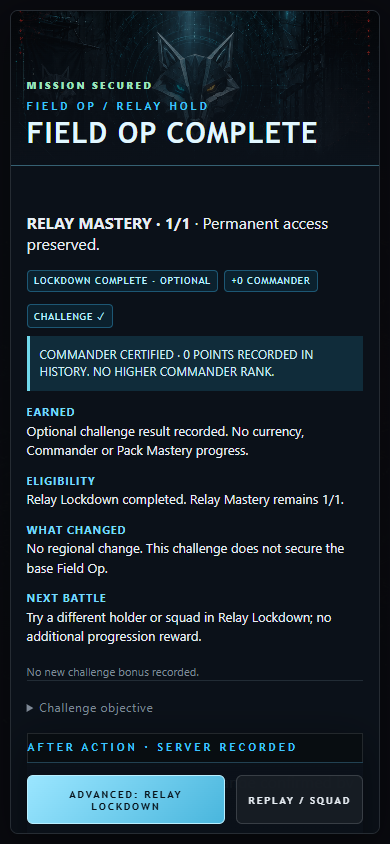
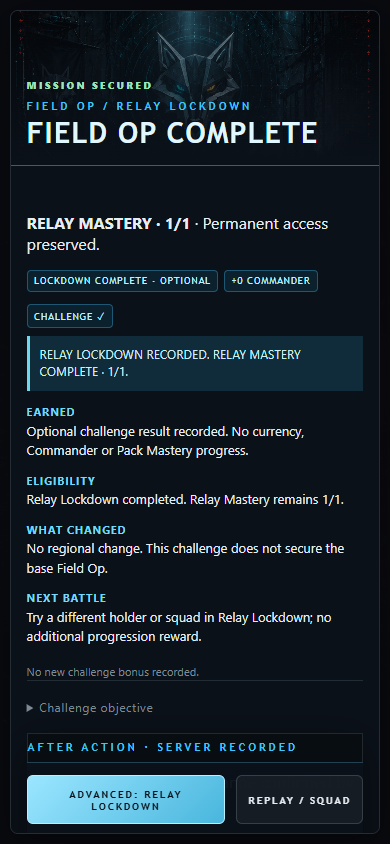
test(tactical): reconcile original depth sources and verify all legal squads

Changed region(s): [[0.0923, 0.4005, 0.8, 0.4621], [0.4308, 0.1232, 0.5538, 0.154], [0.5846, 0.1232, 0.6462, 0.154]]

diff --git a/tactical-ops-src/ui/App.tsx b/tactical-ops-src/ui/App.tsx
@@ -1039,7 +1039,9 @@ function Results() {
   const activeRulesetVersion = useBattleStore((s) => s.activeRulesetVersion);
   const selectedSquadIds = useBattleStore((s) => s.selectedSquadIds);
   const encounter = resolveCurrentEncounter(onboardingEnabled, onboardingStageId);
-  const mission = getMissionDef(selectedMissionId);
+  const resultBaseMission = getMissionDef(selectedMissionId);
+  const confirmedVariant = matchingAfterActionReceipt(fieldResult, currentRunKey, selectedMissionId)?.masteryChallenge;
+  const mission = resultBaseMission && confirmedVariant ? missionForContext(resultBaseMission,{reportVersion:4,masteryChallenge:confirmedVariant}) : resultBaseMission;
   const fieldOp = mission?.activity === "FIELD_OP";
   const campaignMission = mission?.operationId === DEAD_RELAY.operationId;
   const resultNext = commandPurpose(progression).primary;

diff --git a/tactical-ops-src/ui/missionPurpose.ts b/tactical-ops-src/ui/missionPurpose.ts
@@ -128,6 +128,7 @@ export function deriveMissionPresentation(m: MissionDef, field?: FieldOpsProgres
   };
 }
 export function recordedResultMeaning(result: FieldResult): string {
+  if (result.masteryChallenge) return result.victory ? "RELAY LOCKDOWN RECORDED. RELAY MASTERY COMPLETE · 1/1." : "LOCKDOWN ATTEMPT RECORDED. YOUR PERMANENT ACCESS IS PRESERVED.";
   if (!result.victory) return "MISSION FAILED. No clear recorded. Regroup and retry.";
   if (result.rankAfter >= 3) return `COMMANDER CERTIFIED · ${result.progressEarned} POINTS RECORDED IN HISTORY. NO HIGHER COMMANDER RANK.`;
   if (result.progressEarned > 0) return "COMMANDER PROGRESS RECORDED. YOUR NEXT CERTIFICATION MILESTONE IS CLOSER.";

diff --git a/docs/TACTICAL_DEPTH01_MASTERY_PATH.md b/docs/TACTICAL_DEPTH01_MASTERY_PATH.md
@@ -18,7 +18,7 @@ Baseline: `a24dc6a9aae39dbb700a205f5ebfb9bdabe37173`, merged PR #212. One perman
 
 ## Tactical proof
 
-Focused real-engine matrix: **32 battles, 24 wins / 8 defeats**, two lineups, two builds, four policies, both 8×5 and accepted 10×7. All resolve. Twelve total purchased skill ranks; no impossible 18-point account fixture.
+Focused real-engine matrix: **96 battles, 66 wins / 30 defeats**, all three legal lineups, base/developed stat profiles, two builds, four policies, both 8×5 and accepted 10×7. All resolve. Twelve total purchased skill ranks; no impossible 18-point account fixture.
 
 Concrete 10×7 examples with unchanged base combat stats:
 
@@ -51,12 +51,22 @@ Private backend: only `tactical_field_ops.py` and `tactical_ops_foundation.py` c
 - Canonical IIFE/cache: `3.6.12-depth01`. Dedicated hosted workflow runs contracts, real engine, mobile cases and deterministic bundle parity; private backend testing remains local.
 - Unchanged broader regression evidence remains in merged PR #212. Physical-device verification is not inferred from Chromium.
 
-Read: Evergreen Architecture V1 §§28–30, local Long-Term Gameplay & Retention Blueprint (26 October), Campaign P0/P1 Blueprint (10 October), PR #212 design/QA contracts. The separately named Meaningful Gameplay Blueprint V1, Depth & Progression Working Note and Campaign & Progression Architecture V1 were not located by those names in the supplied checkpoint directory; exact-source reconciliation remains open. The current explicit DEPTH 01 request defines this implementation's scope.
+All four original design authorities were read from the owner-supplied `PROJECT_CHECKPOINTS/ALPHA_TACTICAL_OPS_ORIGINAL_BLUEPRINTS.zip`:
+
+| Authority | DEPTH 01 mapping |
+| --- | --- |
+| Meaningful Gameplay Blueprint V1 S2 | Exact tile versus contested area; three legal squads, base/developed profiles; actual successful interrupts and failed evasion; no HP inflation. Unchanged twelve-mission proof is reused from PR #212. |
+| Meaningful Gameplay Blueprint V1 S3 | Existing Mastery/Growth before/after proof; one persistent unlock with receipt/reload evidence; truthful no-reward practice and one next action. No invented world consequence. |
+| Evergreen Architecture V1 §§28–30 | Existing Pack progression matters in a following encounter; one economical config variant, one optional HOLD parameter; no independent framework. |
+| Depth & Progression Working Note §§4–6, 9–10 | Real companion trade-offs, existing saved upgrades survive sessions and change next-run play. No new trees, currencies or token dependency. |
+| Campaign & Progression Architecture V1 §§7, 9, 13–16, 21 | Configured content over current core; one save source; once-only unlock; defeat preserves progress; existing War Table / Brief / Results, portrait-first. |
+
+The related October long-term and campaign blueprints and PR #212 contracts were also reviewed. The Working Note's historical phase-start/device gates are not asserted complete here; the current explicit DEPTH 01 request authorizes this focused local implementation, while physical-device/production acceptance remains open.
 
 ## Manual release gates — HOLD
 
 1. Owner confirms the two VPS baseline hashes and runtime destination against the private manifest; review/deploy the private backend and paired frontend manually. No automatic merge, VPS access or deployment occurred.
-2. Confirm the exact named design-source files above, and reconcile any additional S2/S3 requirements.
+2. Complete S2/S3 human comprehension and real-device acceptance; the exact design-source reconciliation is complete.
 3. Physical S26 Ultra Telegram / standalone Android and iPhone: locked → unlock → minimize/reopen → battle → save/reconnect, expired rotation, touch/scroll/safe areas, failure and offline save retry. Check both old accepted 8×5 and new 10×7 runs.
 4. A developed Rank 3 player can explain current objective, qualifying proof, permanent option, exact-tile difference and the next honest action without coaching. No claim of long-term retention.
 5. Do not roll either client or backend back to a version that cannot read active v4 runs. Finish/drain those runs with this pair first; retain user data and receipts. See private handoff for backups, order, verification and rollback constraints.
